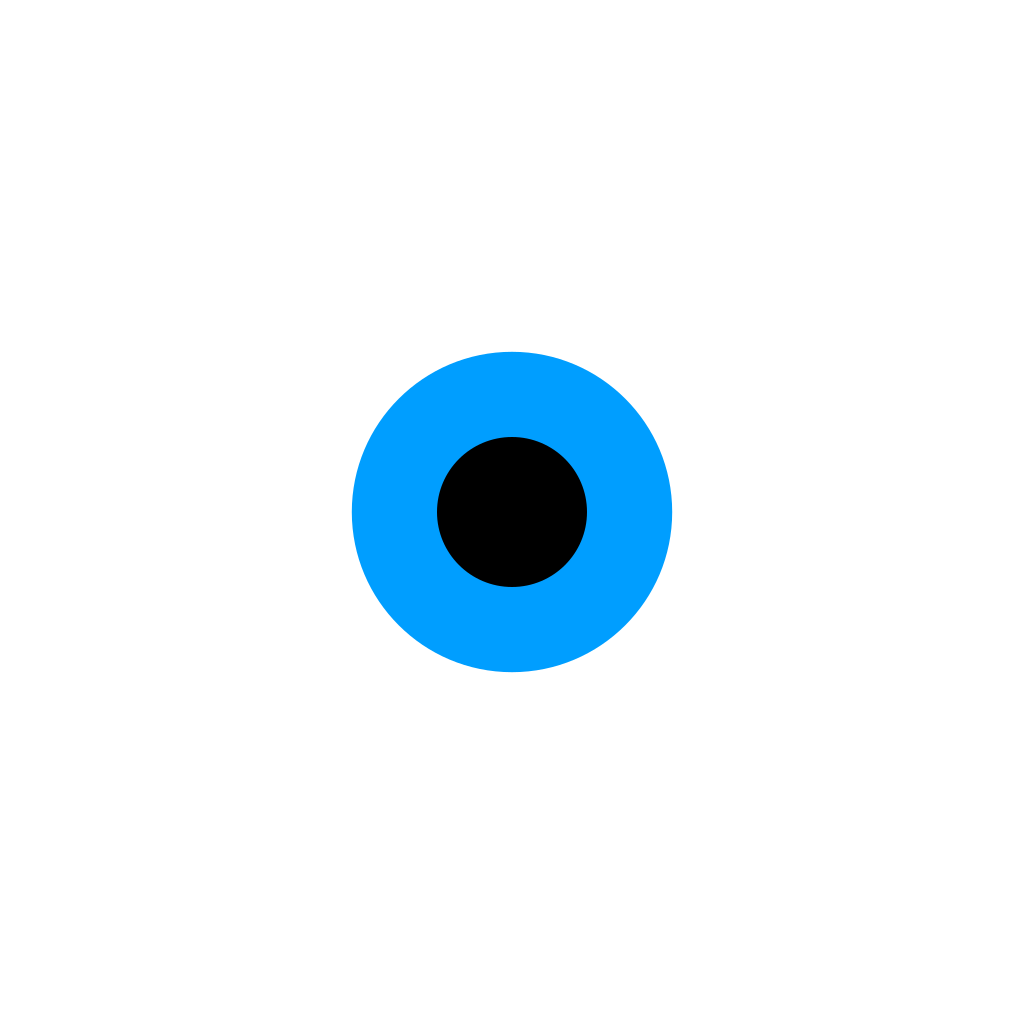
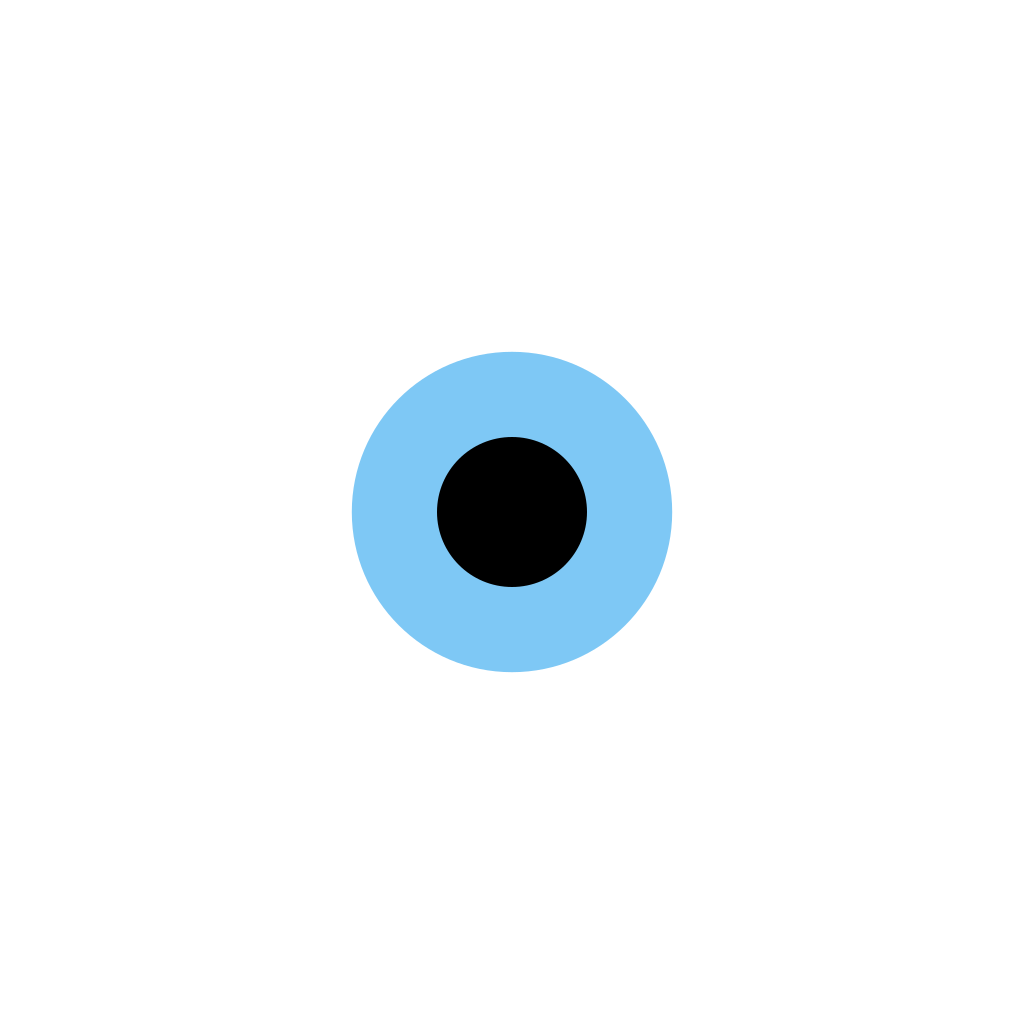
aplica a paleta Nazar no olho da Aqua
A íris dos ícones, splash, favicons e da marca passa a #7EC8F5.
O azul principal continua #002BEF, e o design core ganha o azul complementar #0D2BDB.

Changed region(s): [[0.3438, 0.3438, 0.6562, 0.6562]]

diff --git a/aqua-design-core/src/brand/tokens.ts b/aqua-design-core/src/brand/tokens.ts
@@ -7,7 +7,9 @@ export const AQUA = {
   blueHover: '#0022C2',
   blueActive: '#001A96',
   blueSoft: '#E6EBFF',
-  sky: '#009EFF',
+  /** Deep blue paired with the Nazar sky. Primary blue stays `blue`. */
+  blueComplement: '#0D2BDB',
+  sky: '#7EC8F5',
   orange: '#F04C24',
   ink: '#0F172A',
   muted: '#405168',
@@ -20,10 +22,10 @@ export const AQUA = {
 
 export type GradientToken = { id: string; label: string; stops: [number, string][] }
 
-/** Same stops as `gradients` in `src/alf/tokens.ts`. */
+/** Primary matches `gradients` in `src/alf/tokens.ts`. The sky gradient ends on `AQUA.sky`. */
 export const AQUA_GRADIENTS: GradientToken[] = [
   { id: 'primary', label: 'Aqua', stops: [[0, '#002BEF'], [0.4, '#0057FF'], [0.6, '#0057FF'], [1, '#009EFF']] },
-  { id: 'sky', label: 'Céu', stops: [[0, '#002BEF'], [1, '#009EFF']] },
+  { id: 'sky', label: 'Céu', stops: [[0, '#002BEF'], [1, '#7EC8F5']] },
   { id: 'midnight', label: 'Meia-noite', stops: [[0, '#022C5E'], [1, '#4079BC']] },
   { id: 'sunrise', label: 'Amanhecer', stops: [[0, '#4E90AE'], [0.4, '#AEA3AB'], [0.8, '#E6A98F'], [1, '#F3A84C']] },
   { id: 'sunset', label: 'Pôr do sol', stops: [[0, '#6772AF'], [0.6, '#B88BB6'], [1, '#FFA6AC']] },

diff --git a/src/components/icons/AquaLogo.tsx b/src/components/icons/AquaLogo.tsx
@@ -5,7 +5,7 @@ import {type Props, useCommonSVGProps} from '#/components/icons/common'
 
 /**
  * Aqua eye mark, option A (Clássico), from aqua-olho.svg.
- * Circles are centered: outer #002BEF, sclera #FFFFFF, iris #009EFF, pupil #000000.
+ * Circles are centered: outer #002BEF, sclera #FFFFFF, iris #7EC8F5, pupil #000000.
  * `fill` and `gradient` stay on the props API so existing callers typecheck;
  * the mark keeps these brand colors.
  */
@@ -30,7 +30,7 @@ export const AquaLogo = React.forwardRef<Svg, Props>(
         style={[style]}>
         <Circle cx={550} cy={550} r={510} fill="#002BEF" />
         <Circle cx={550} cy={550} r={320} fill="#FFFFFF" />
-        <Circle cx={550} cy={550} r={205} fill="#009EFF" />
+        <Circle cx={550} cy={550} r={205} fill="#7EC8F5" />
         <Circle cx={550} cy={550} r={96} fill="#000000" />
       </Svg>
     )

diff --git a/src/Splash.tsx b/src/Splash.tsx
@@ -42,7 +42,7 @@ export const Logo = React.forwardRef(function LogoImpl(props: SvgProps, ref) {
       style={[{width, height: width}, style]}>
       <Circle cx={550} cy={550} r={510} fill="#002BEF" />
       <Circle cx={550} cy={550} r={320} fill="#FFFFFF" />
-      <Circle cx={550} cy={550} r={205} fill="#009EFF" />
+      <Circle cx={550} cy={550} r={205} fill="#7EC8F5" />
       <Circle cx={550} cy={550} r={96} fill="#000000" />
     </Svg>
   )

diff --git a/src/Splash.web.tsx b/src/Splash.web.tsx
@@ -20,7 +20,7 @@ export function Splash() {
         style={[a.relative, {width: size, height: size, top: -50}]}>
         <Circle cx={550} cy={550} r={510} fill="#002BEF" />
         <Circle cx={550} cy={550} r={320} fill="#FFFFFF" />
-        <Circle cx={550} cy={550} r={205} fill="#009EFF" />
+        <Circle cx={550} cy={550} r={205} fill="#7EC8F5" />
         <Circle cx={550} cy={550} r={96} fill="#000000" />
       </Svg>
     </View>

diff --git a/bskyogcard/src/components/Butterfly.tsx b/bskyogcard/src/components/Butterfly.tsx
@@ -13,7 +13,7 @@ export function Butterfly(props: React.SVGAttributes<SVGSVGElement>) {
       {...props}>
       <circle cx={550} cy={550} r={510} fill="#002BEF" />
       <circle cx={550} cy={550} r={320} fill="#FFFFFF" />
-      <circle cx={550} cy={550} r={205} fill="#009EFF" />
+      <circle cx={550} cy={550} r={205} fill="#7EC8F5" />
       <circle cx={550} cy={550} r={96} fill="#000000" />
     </svg>
   )

diff --git a/aqua-design-core/src/brand/kit.ts b/aqua-design-core/src/brand/kit.ts
@@ -13,7 +13,7 @@ export interface BrandKit {
 
 export const AQUA_BRAND_KIT: BrandKit = {
   name: 'AQUA',
-  colors: [AQUA.blue, AQUA.sky, AQUA.orange, AQUA.ink, AQUA.muted, AQUA.surface, AQUA.white],
+  colors: [AQUA.blue, AQUA.blueComplement, AQUA.sky, AQUA.orange, AQUA.ink, AQUA.muted, AQUA.surface, AQUA.white],
   gradients: AQUA_GRADIENTS,
   headingFont: AQUA_FONTS.heading,
   bodyFont: AQUA_FONTS.body,

diff --git a/src/components/AquaEyeLogo.tsx b/src/components/AquaEyeLogo.tsx
@@ -64,7 +64,7 @@ export function AquaEyeLogo({
           cx={550}
           cy={500}
           rx={205}
-          fill="#00A0FF"
+          fill="#7EC8F5"
           animatedProps={iris}
         />
         <AnimatedEllipse
